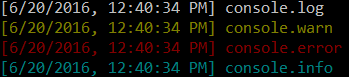
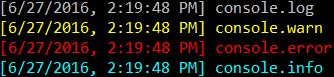
Renamed exemple to example, fixed typo in readme.md, updated screenshot

diff --git a/example/index.js b/example/index.js
@@ -1,6 +1,5 @@
 require('../lib/log-color-date.js');
 
-
 console.log("console.log")
 console.warn("console.warn")
 console.error("console.error")

diff --git a/README.MD b/README.MD
@@ -1,5 +1,5 @@
 # Log-color-date
-This module overrides the default `console.log`,`console.info`,`console.warn` and console.error` and adds a timestamp in front of the line.
+This module overrides the default `console.log`,`console.info`,`console.warn` and `console.error` and adds a timestamp in front of the line.
 
 ## Installation
 Install with `npm`:
